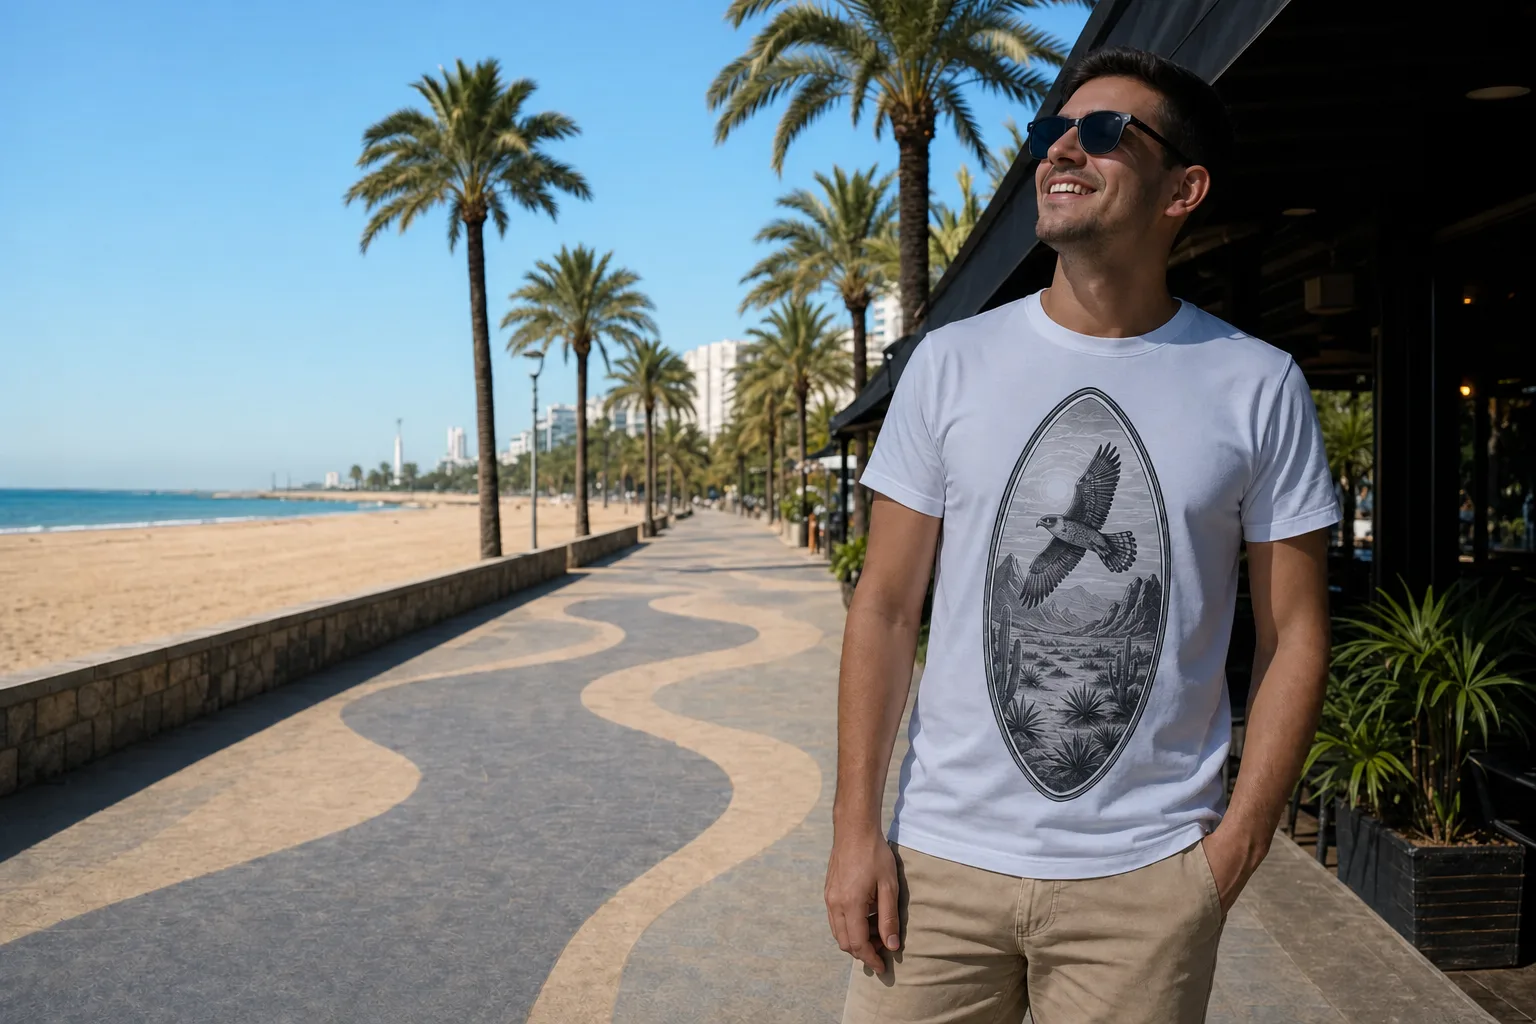
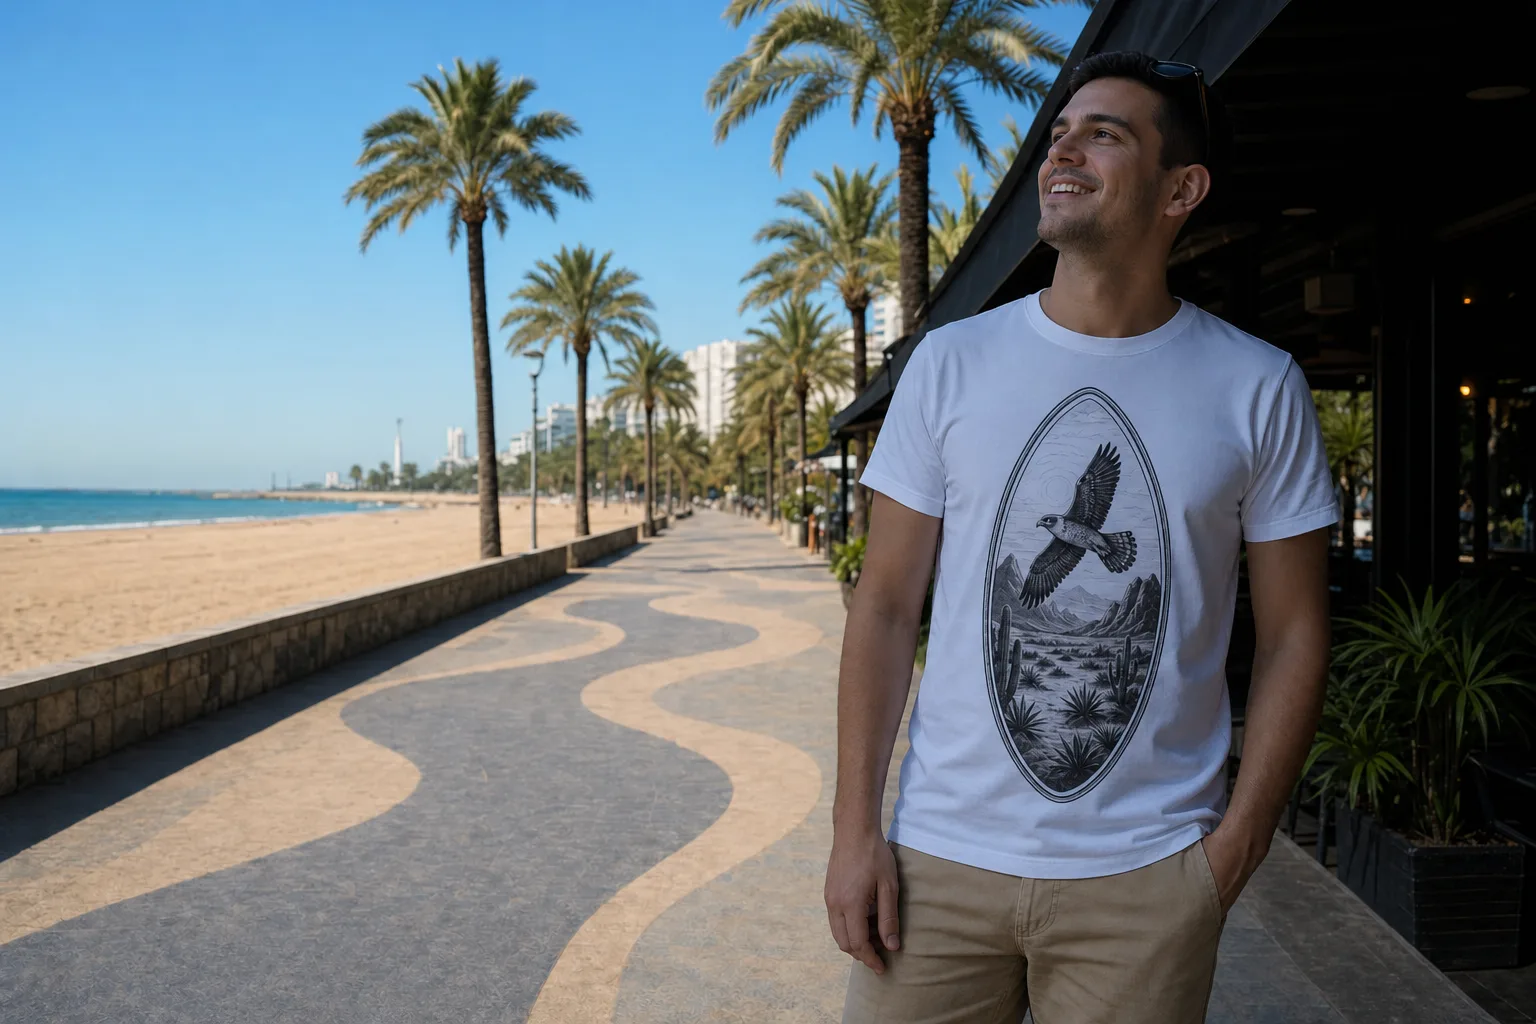
Push hero sunglasses up in the shade photo
The home banner's shade photo now has the sunglasses resting on his head,
so they drop over his eyes when the visitor steps into the sun.

diff --git a/src/lib/site-images.ts b/src/lib/site-images.ts
@@ -84,7 +84,8 @@ export const SITE_IMAGES: SiteImage[] = [
     prompt:
       "The same photo: keep the person, pose, framing, camera angle and background exactly the same. Only change " +
       "this: the person is now standing completely inside the cool shadow of the café awning, so no direct sunlight " +
-      "touches them, and the print on their tee shows only its grey and black line art with no colour at all. The " +
+      "touches them, the print on their tee shows only its grey and black line art with no colour at all, and they " +
+      "have pushed the same sunglasses up to rest on top of their head, so their eyes are now visible. The " +
       "beach and palm trees behind them are still sunny. Photorealistic, no text.",
   },
   {
